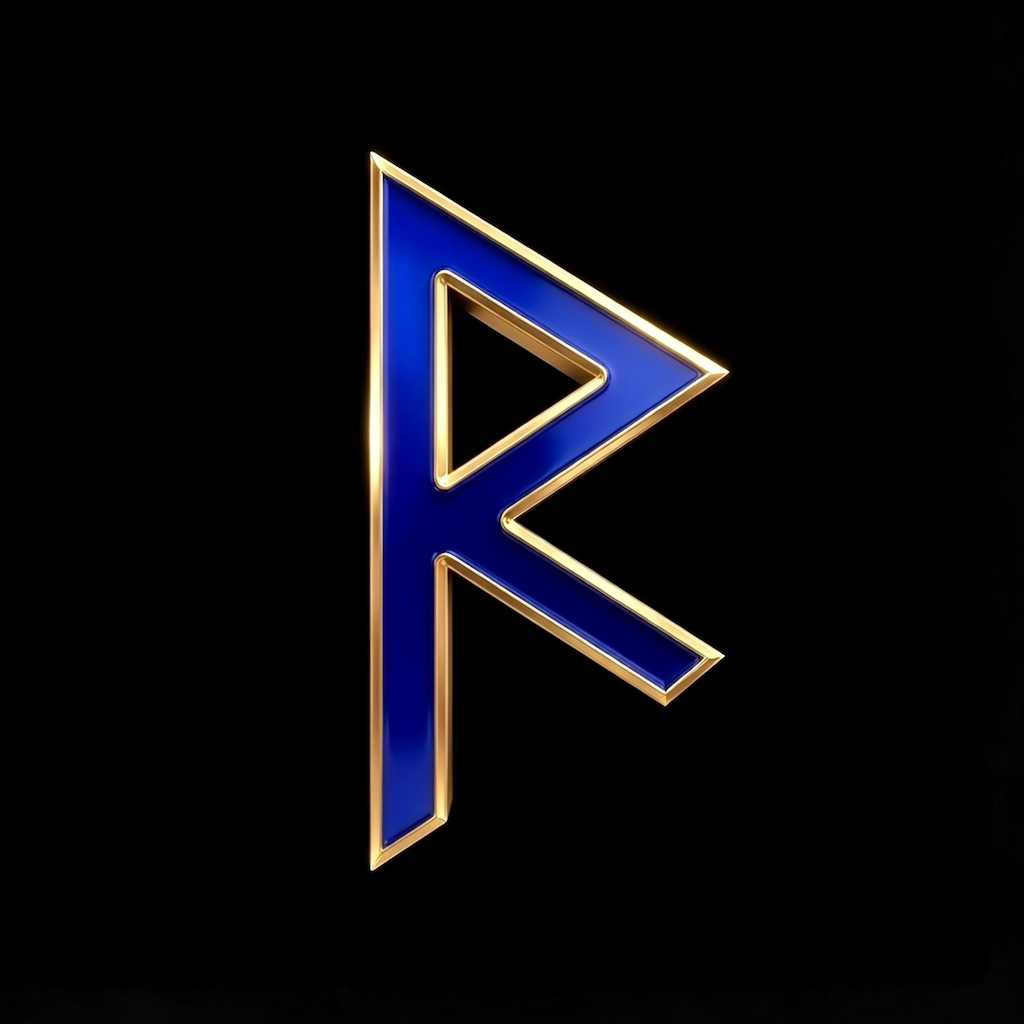
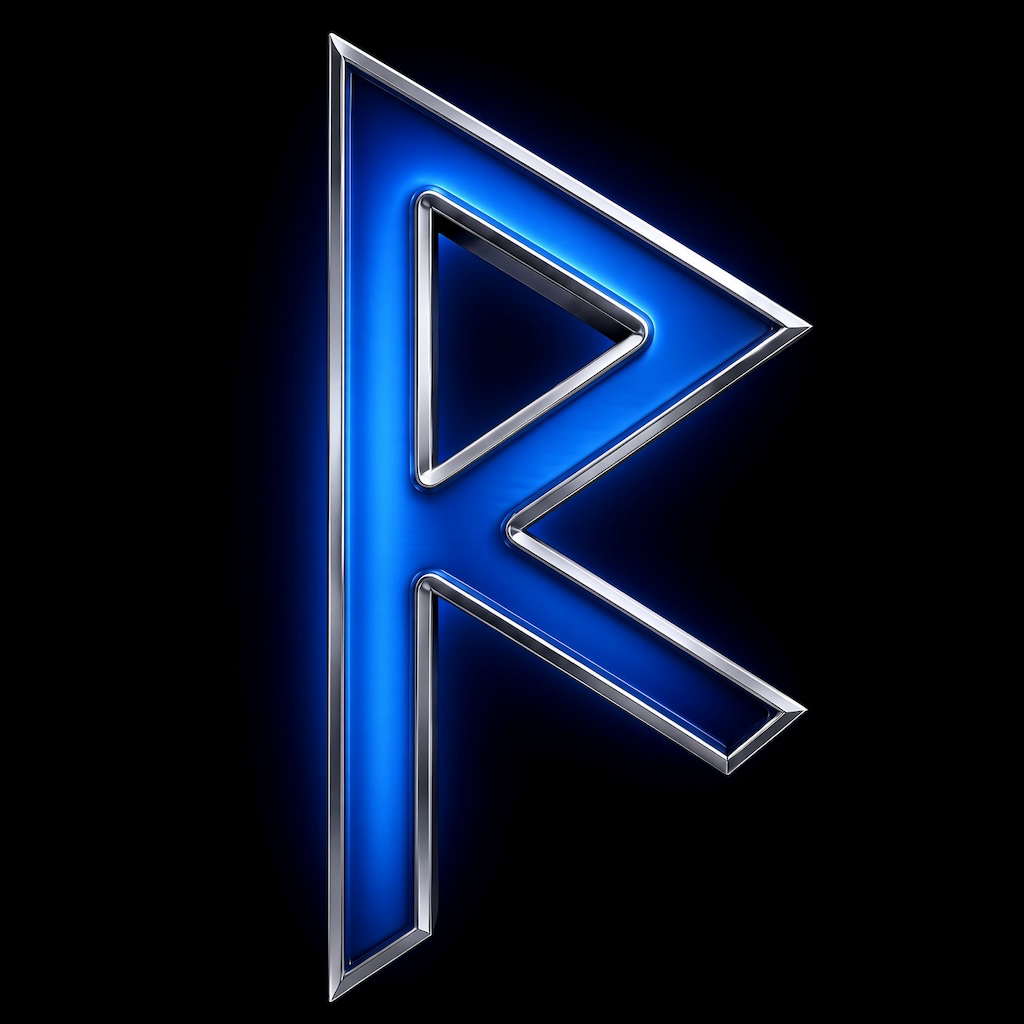
feat(shell): chrome-blue Raidho suite backdrop mark
Replace the shared raidho-r-mark.png with the chrome/silver-edged
electric-blue Raidho R. SuiteRaidhoBackdrop and RAIDHO_R_MARK stay
the single consumer path so Facts, Cal, Grok, Tow, GPS, Lot, Sold,
and More pick it up together.

Changed region(s): [[0.25, 0.0312, 0.8125, 1.0]]

diff --git a/src/assets/prestige.ts b/src/assets/prestige.ts
@@ -13,5 +13,5 @@ export const FACTS_LANDING_BACKDROP = "/assets/facts-landing-motorhome.jpg";
 /** Tow landing / picker — truck + fifth-wheel beach campfire, public URL */
 export const TOW_LANDING_BACKDROP = "/assets/tow-landing-beach.jpg";
 
-/** Brand watermark — Raidho R (ᚱ), glossy sapphire fill + champagne-gold frame */
+/** Brand watermark — Raidho R (ᚱ), electric-blue fill + chrome/silver frame */
 export const RAIDHO_R_MARK = "/assets/brand/raidho-r-mark.png";

diff --git a/src/styles.css b/src/styles.css
@@ -9,7 +9,7 @@
    * (#372). Dock plate matches the Raidho mark ground exactly
    * (#000000 sampled from public/assets/brand/raidho-r-mark.png)
    * so the tab square disappears into the icon — not a contrasting
-   * sapphire plate. Mark itself stays glossy sapphire + champagne-gold
+   * sapphire plate. Mark itself stays electric-blue + chrome/silver
    * on that black. One highlight.
    */
   --color-ink-black: #061228;
